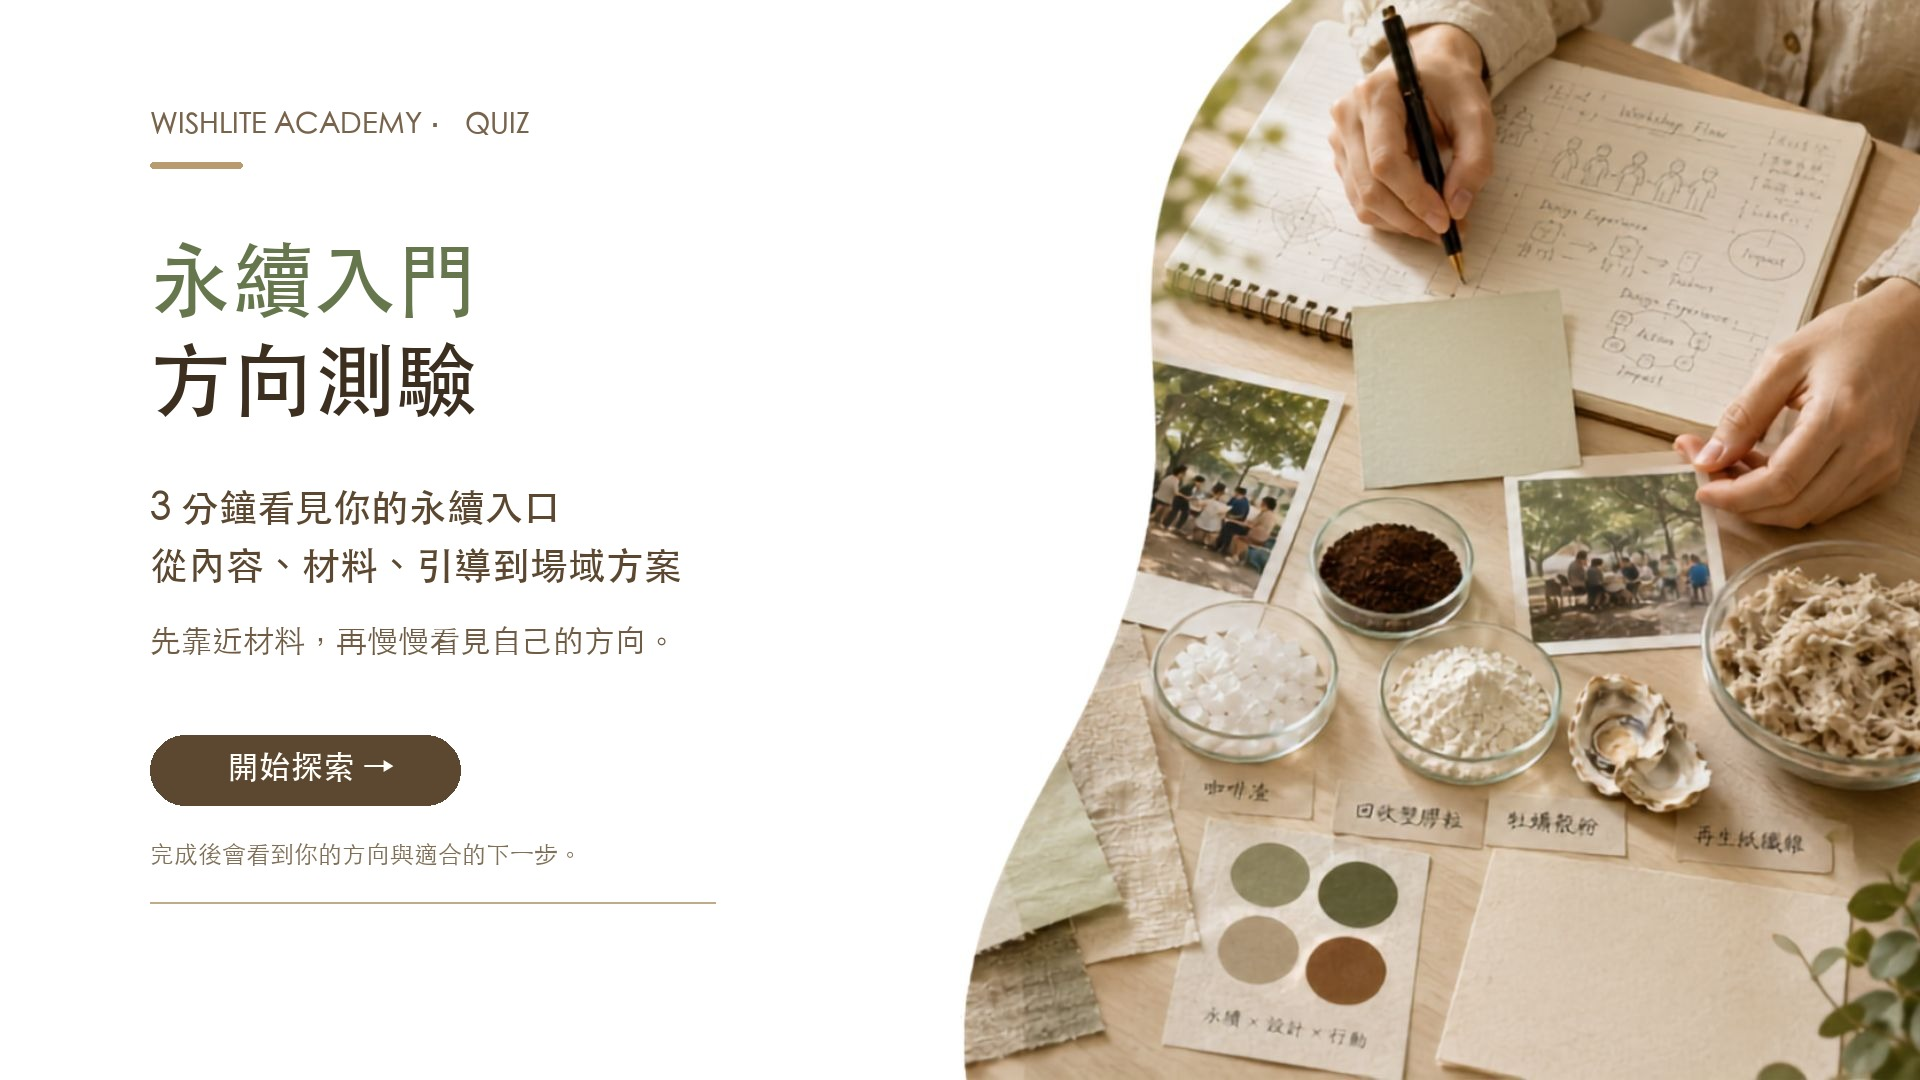
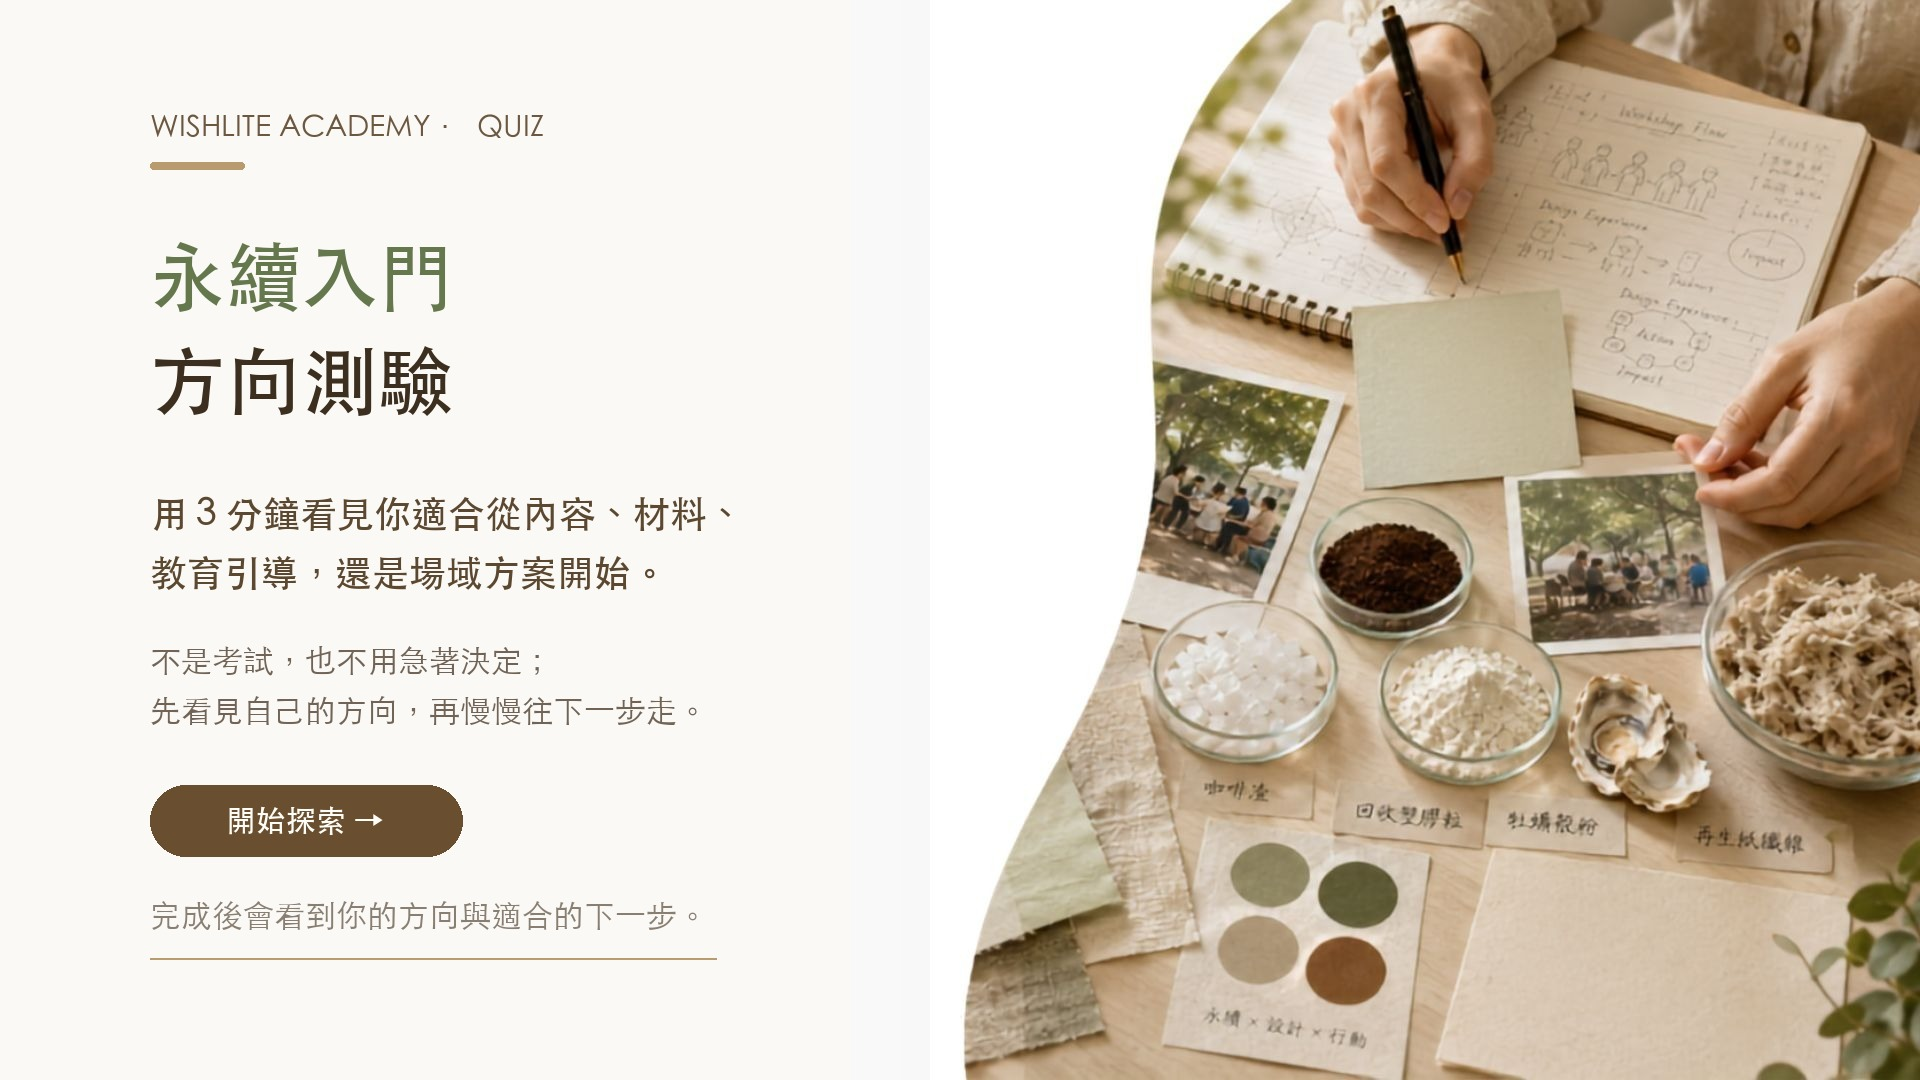
Update quiz naming and hero copy

diff --git a/academy/quiz/index.html b/academy/quiz/index.html
@@ -3,10 +3,10 @@
 <head>
 <meta charset="UTF-8">
 <meta name="viewport" content="width=device-width, initial-scale=1.0">
-<title>永續入門方向測驗互動板｜Wishlite 永續行動學院</title>
-<meta name="description" content="用 3 分鐘完成測驗，看看你比較適合從內容、材料、教育引導，還是場域方案開始。">
-<meta property="og:title" content="永續入門方向測驗互動板">
-<meta property="og:description" content="還不確定自己適不適合《永續行動設計師》嗎？用 3 分鐘找到你的永續入門方向。">
+<title>Wishlite｜永續入門方向自測表與入門路徑指導</title>
+<meta name="description" content="用 3 分鐘看見你適合從內容、材料、教育引導，還是場域方案開始。">
+<meta property="og:title" content="永續入門方向測驗">
+<meta property="og:description" content="用 3 分鐘看見你適合從內容、材料、教育引導，還是場域方案開始。">
 <meta property="og:type" content="website">
 <meta property="og:image" content="https://wishlite.github.io/wishlite-esg/academy/quiz/assets/hero-methodology-worktable.jpg">
 <meta property="og:url" content="https://wishlite.github.io/wishlite-esg/academy/quiz/">
@@ -60,8 +60,19 @@
   }
   button,input,textarea{font:inherit;}
   button{cursor:pointer;}
-  a{color:inherit;}
-  .site{position:relative;min-height:100vh;}
+	  a{color:inherit;}
+	  .sr-only{
+	    position:absolute;
+	    width:1px;
+	    height:1px;
+	    padding:0;
+	    margin:-1px;
+	    overflow:hidden;
+	    clip:rect(0,0,0,0);
+	    white-space:nowrap;
+	    border:0;
+	  }
+	  .site{position:relative;min-height:100vh;}
   .wrap{width:min(100%,980px);margin:0 auto;padding:0 22px;}
   .topbar{
     display:flex;
@@ -626,8 +637,10 @@
     </header>
 
     <main>
-      <section id="screen-home" class="screen active">
-        <div class="hero">
+	      <section id="screen-home" class="screen active">
+	        <h1 class="sr-only">永續入門方向測驗</h1>
+	        <p class="sr-only">用 3 分鐘看見你適合從內容、材料、教育引導，還是場域方案開始。</p>
+	        <div class="hero">
           <div class="hero-grid hero-single">
             <div class="visual">
               <img src="assets/hero-methodology-worktable.jpg?v=5" alt="永續材料、手寫筆記與學習路徑工作桌">
